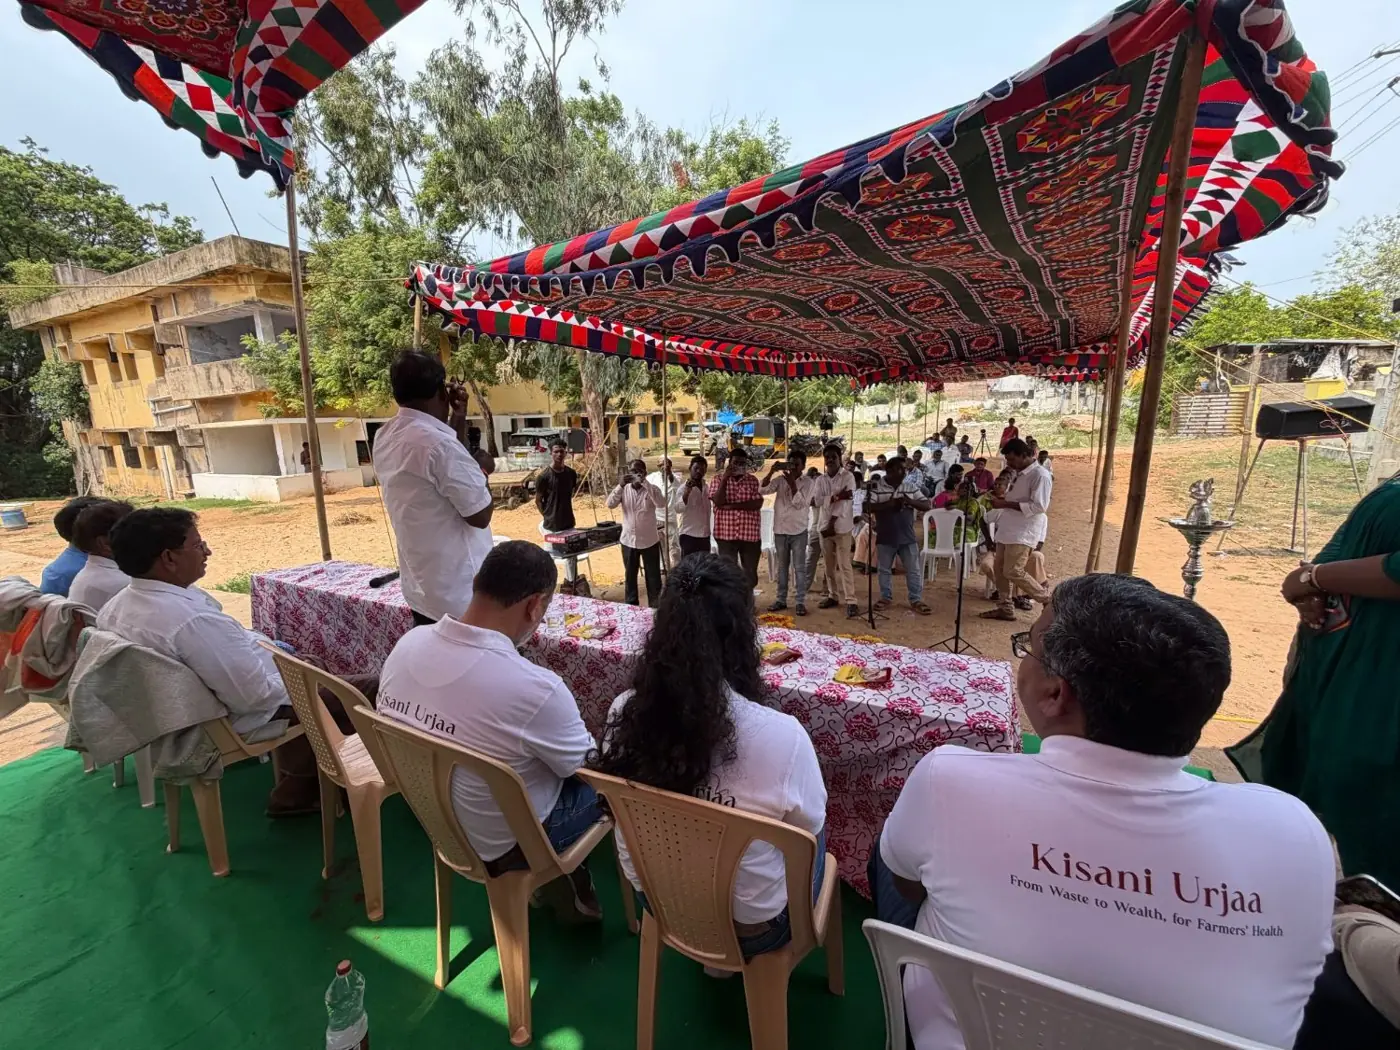
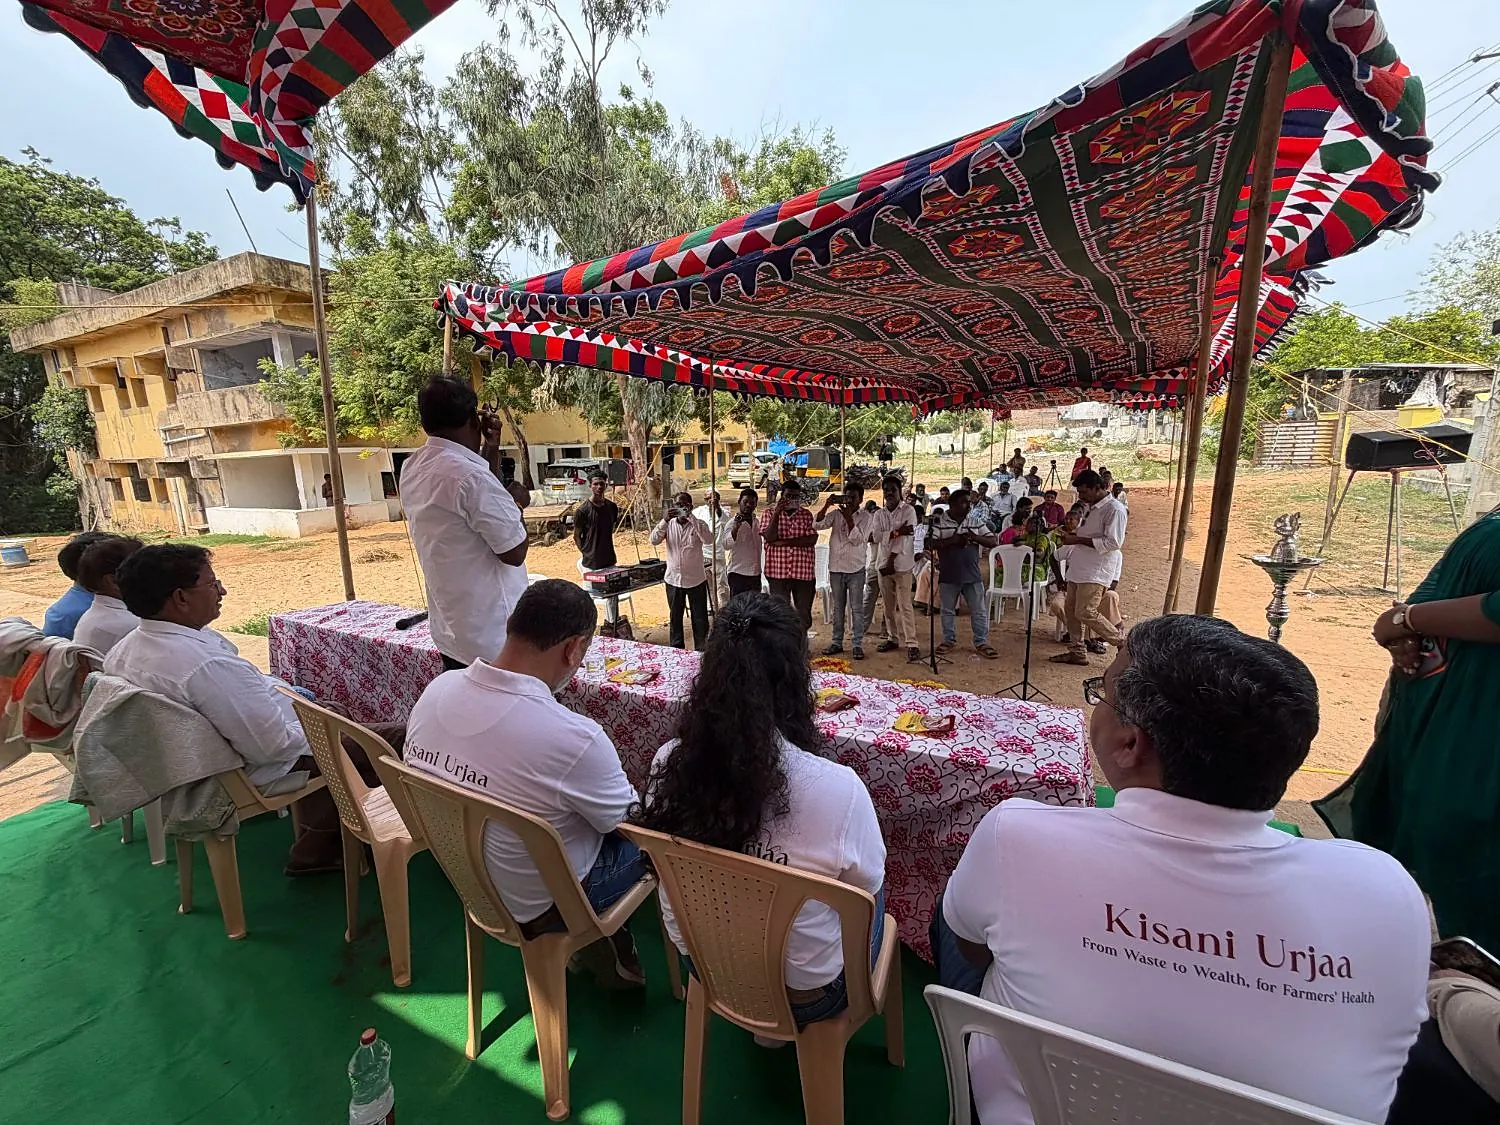
Ver 3: sharper photos
- Kisani Urjaa event photos kept at full resolution (1500-1700 px; the
  Samriddhi WebP at its native size, not re-encoded), quality 80 and a
  light unsharp mask, instead of 1200-1400 px at quality 72-74
- Hero drift zoom reduced from 6-14 % to 2-6 %, so photos are not
  enlarged past their sharpness on tall cards

Claude-Session: https://claude.ai/code/session_01TjKGesTYbxTbbJPKWucBRK

diff --git a/src/d3/styles/base.css b/src/d3/styles/base.css
@@ -168,11 +168,12 @@
   }
 }
 
+/* Slow drift on hero photos. Kept small (2–6 % zoom) so photos are not enlarged past their sharpness. */
 @keyframes fj3-drift {
   from {
-    transform: scale(1.06) translate3d(-1.2%, 0.6%, 0);
+    transform: scale(1.02) translate3d(-0.6%, 0.3%, 0);
   }
   to {
-    transform: scale(1.14) translate3d(1.2%, -0.8%, 0);
+    transform: scale(1.06) translate3d(0.6%, -0.4%, 0);
   }
 }
